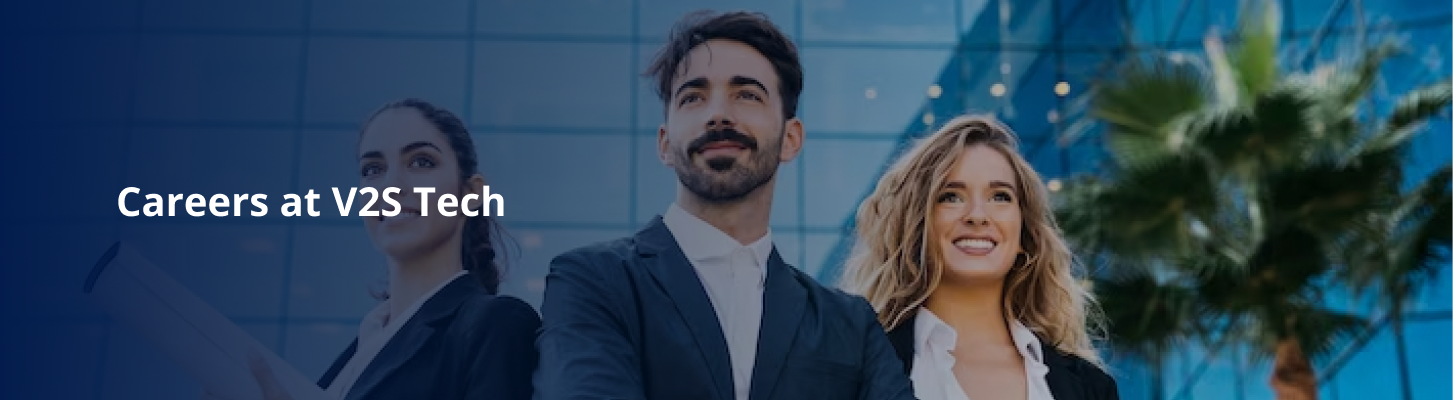
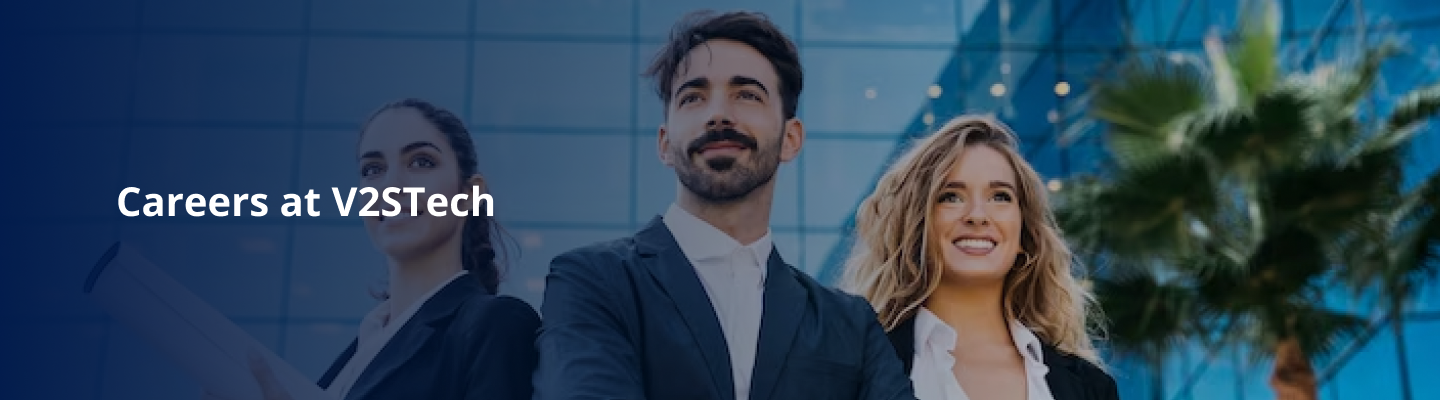
stretched images changed & spelling issues fixed

diff --git a/src/app/modules/CaseStudies/config/constants.ts b/src/app/modules/CaseStudies/config/constants.ts
@@ -1,15 +1,10 @@
 import DomainLogo1 from "../../../assets/caseStudiesDetails/Domain1.png";
 import CareImg1 from "../../../assets/caseStudiesDetails/Care1.png";
 import QfixImg1 from "../../../assets/caseStudiesDetails/Qfix1.png";
-import QfixImg2 from "../../../assets/caseStudiesDetails/Qfix2.png";
-import QfixImg3 from "../../../assets/caseStudiesDetails/Qfix3.png";
-import QfixImg4 from "../../../assets/caseStudiesDetails/Qfix4.png";
 import FissaraLogo from "../../../assets/caseStudiesDetails/FissaraLogo.png";
 import FissaraImg1 from "../../../assets/caseStudiesDetails/Fissara1.png";
 import PinelabsImg1 from "../../../assets/caseStudiesDetails/Pinelabs1.png";
-import PinelabsImg2 from "../../../assets/caseStudiesDetails/Pinelabs2.png";
 import PathlockImg1 from "../../../assets/caseStudiesDetails/Pathlock1.png";
-import PathlockImg2 from "../../../assets/caseStudiesDetails/Pathlock2.png";
 import RipplehireImg from "../../../assets/caseStudiesDetails/Ripplehire.png";
 
 import CareMap from "../../../assets/caseStudiesListing/care-map.png";
@@ -203,7 +198,7 @@ export const CASE_STUDIES_LIST = [
     ongoingValueBasedRelationship: [
       "Integrating upcoming merchant with Qfix payment platform. Please read more details (link to pinelab case study)",
     ],
-    projectScreenshots: [QfixImg1, QfixImg2, QfixImg3, QfixImg4],
+    projectScreenshots: [QfixImg1],
   },
   {
     id: 3,
@@ -321,7 +316,7 @@ export const CASE_STUDIES_LIST = [
     ongoingValueBasedRelationship: [
       "Team is working on connector implementation requirement for 50+ business app like slack, workday etc",
     ],
-    projectScreenshots: [PathlockImg1, PathlockImg2],
+    projectScreenshots: [PathlockImg1],
   },
   {
     id: 5,
@@ -384,7 +379,7 @@ export const CASE_STUDIES_LIST = [
       "Continuous improvement in middleware to handle upcoming external merchant requirement.",
       "Acquiring core payment platform knowledge which helps to identify gaps in requirements during merchant integration.",
     ],
-    projectScreenshots: [PinelabsImg1, PinelabsImg2],
+    projectScreenshots: [PinelabsImg1],
   },
   {
     caseName: "RippleHire",

diff --git a/src/app/modules/AboutUs/config/messages.ts b/src/app/modules/AboutUs/config/messages.ts
@@ -5,7 +5,7 @@ export const messages = {
   aboutUsDescription:
     "Established in 2013, V2STech Solutions is an established & trusted IT services company based in India.",
   aboutUsSubDescription:
-    "We work in tandem with our client’s goals and deliver enhanced digital experience. We apply an insight driven approach. Our team reaches out to each client to understand their unique requirements, and craft a flexible delivery model to create maximum and lasting impact. This results in a stronger connect and long term business relationships with the client. Our transparent and secure delivery model respects and shields intellectual rights of our clients.V2STech solutions offers a spectrum of services in software integration and product development. We are specialized in providing solutions for Microservice implementation, Middleware ESB implementation, Event driven application integrations and Hight volume application integration.",
+    "We work in tandem with our client’s goals and deliver enhanced digital experience. We apply an insight driven approach. Our team reaches out to each client to understand their unique requirements, and craft a flexible delivery model to create maximum and lasting impact. This results in a stronger connect and long term business relationships with the client. Our transparent and secure delivery model respects and shields intellectual rights of our clients.V2STech solutions offers a spectrum of services in software integration and product development. We are specialized in providing solutions for Microservice implementation, Middleware ESB implementation, Event driven application integrations and High volume application integration.",
   ourApproach: "Our Approach",
   v2sTechDescription: "A Saas Product development company",
   ourTeam: "Our Team",

diff --git a/src/app/modules/Home/components/Testimonials/config/constant.ts b/src/app/modules/Home/components/Testimonials/config/constant.ts
@@ -1,6 +1,6 @@
-import TestimonialImg1 from "../../../../../assets/testimonials/testimonials1.jpg";
-import TestimonialImg2 from "../../../../../assets/testimonials/testimonials2.webp";
-import TestimonialImg3 from "../../../../../assets/testimonials/testimonials3.png";
+import TestimonialImg1 from "../../../../../assets/testimonials/testimonial1.png";
+import TestimonialImg2 from "../../../../../assets/testimonials/testimonial2.png";
+import TestimonialImg3 from "../../../../../assets/testimonials/testimonial3.png";
 
 export const TESTIMONIALS = [
   {
@@ -21,7 +21,7 @@ export const TESTIMONIALS = [
   },
   {
     review:
-      "I have worked with V2Stech for a number of years. The relationship started by building a proof of concept in a limited time to test their abilities. They passed with flying colours. I have been working with them ever since. At my current organisation, they have become my trusted IT partner, performing all the functions, including development, IT support, server set-up, server maintenance.",
+      "I have worked with V2STech for a number of years. The relationship started by building a proof of concept in a limited time to test their abilities. They passed with flying colours. I have been working with them ever since. At my current organisation, they have become my trusted IT partner, performing all the functions, including development, IT support, server set-up, server maintenance.",
     author: "Nick Lawford",
     position: "CEO",
     company: "Carebeans, UK",

diff --git a/src/app/modules/ContactUs/components/Content/components/Form/index.tsx b/src/app/modules/ContactUs/components/Content/components/Form/index.tsx
@@ -1,11 +1,14 @@
 import { Box, Button, Stack, TextField, Typography } from "@mui/material";
 import COLORS from "../../../../../../styles/colors";
 import { messages } from "../../../../config/messages";
+import { useShowToastNotifications } from "../../../../../../containers/ToastNotifications";
 
 const ContactUsForm: React.FC = () => {
+  const { showToastNotification } = useShowToastNotifications();
+
   const handleFormSubmit = (event: React.FormEvent<HTMLFormElement>) => {
     event.preventDefault();
-    alert("Your submission was successful.");
+    showToastNotification("Your submission was successful.", "success");
   };
 
   return (

diff --git a/src/app/modules/AboutUs/config/constants.tsx b/src/app/modules/AboutUs/config/constants.tsx
@@ -115,7 +115,7 @@ export const NEWS_LIST = [
   },
   {
     image: NewsImg2,
-    title: "Coporate training in customer service and team building",
+    title: "Corporate training in customer service and team building",
     description:
       "Here are popular strategies and frameworks for prioritizing product features that can help your product to stand apart from competition.",
   },

diff --git a/src/app/modules/Home/components/OurDomainExpertise/constants.ts b/src/app/modules/Home/components/OurDomainExpertise/constants.ts
@@ -41,7 +41,7 @@ export const OUR_DOMAIN_EXPERTISE: Array<{
     id: 5,
     title: "e-Governance",
     description:
-      "Build Citizen friendly smart city solutions for state goverment and municipal corporations",
+      "Build Citizen friendly smart city solutions for state government and municipal corporations",
     icon: eGovernance,
   },
 ];
